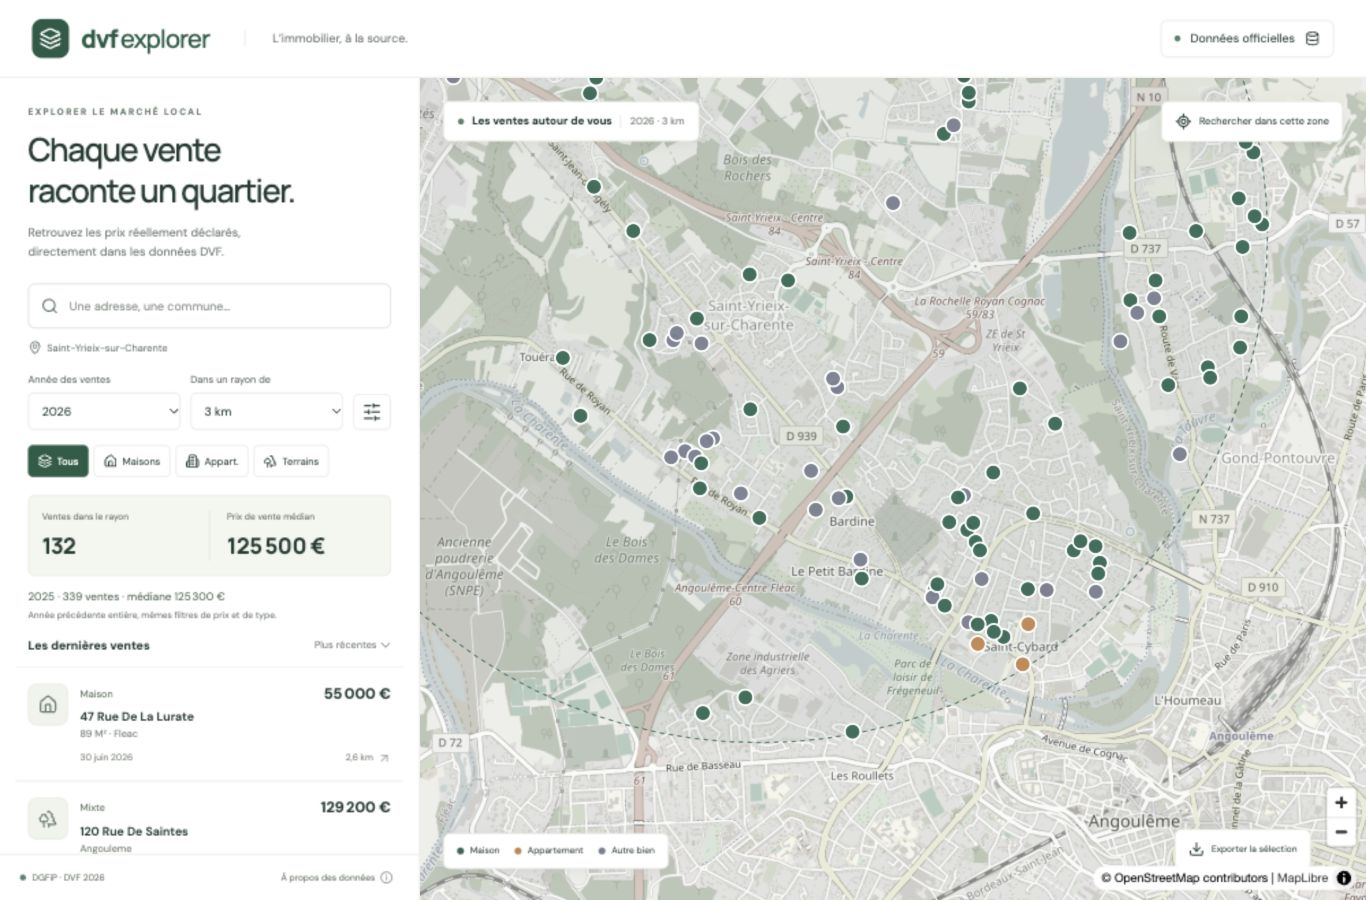
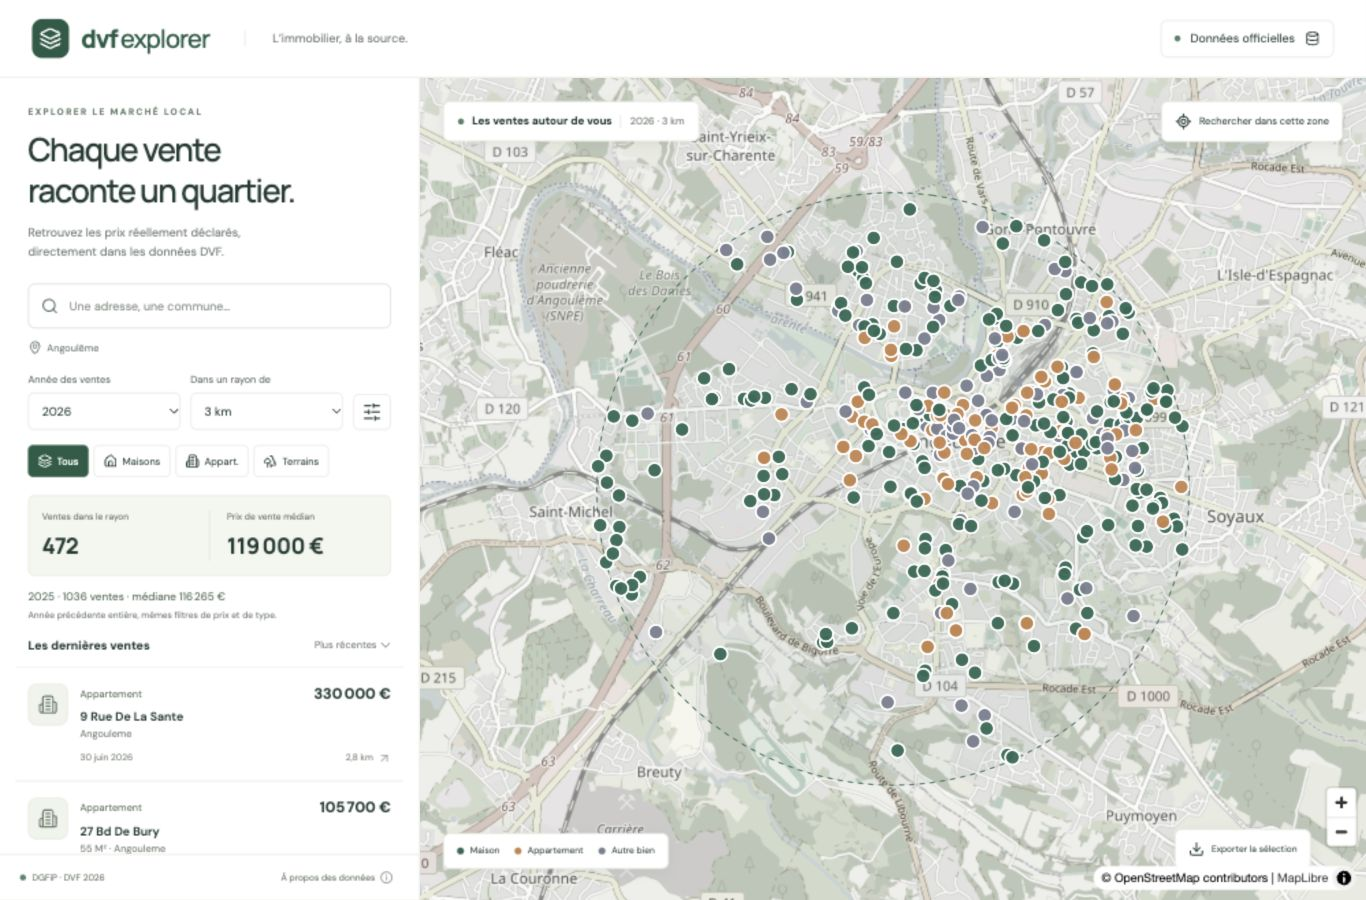
Center the default exploration on Angouleme

diff --git a/frontend/src/main.jsx b/frontend/src/main.jsx
@@ -7,7 +7,7 @@ import{Search,MapPin,ArrowUpRight,X,SlidersHorizontal,Database,Layers,LocateFixe
 import'maplibre-gl/dist/maplibre-gl.css';import'./style.css';
 const money=v=>v==null?'—':new Intl.NumberFormat('fr-FR',{style:'currency',currency:'EUR',maximumFractionDigits:0}).format(v);
 const date=v=>new Date(v+'T12:00:00').toLocaleDateString('fr-FR',{day:'numeric',month:'short',year:'numeric'});
-const initial={lon:.127748,lat:45.67955,label:'Saint-Yrieix-sur-Charente',department:'16'};
+const initial={lon:.148008,lat:45.644105,label:'Angoulême',department:'16'};
 async function api(path,options={}){const r=await fetch(path,options);if(!r.ok){let d;try{d=await r.json()}catch{}throw new Error(typeof d?.detail==='string'?d.detail:`Le service ne répond pas (${r.status}).`)}return r.json()}
 function App(){
 const[center,setCenter]=useState(initial),[query,setQuery]=useState(''),[suggestions,setSuggestions]=useState([]),[searchError,setSearchError]=useState('');

diff --git a/backend/tests/test_app.py b/backend/tests/test_app.py
@@ -11,10 +11,10 @@ from fastapi.testclient import TestClient
 def client(tmp_path,monkeypatch):
     monkeypatch.setattr(store,'DATA',tmp_path)
     con=store.connect()
-    values=[('near',date(2026,1,5),200000,'A','Commune','16','16358','Maison',100,300,4,.127748,45.67955,'["16358000AB0001"]',1,2026,'https://example.test',False),
-            ('complex',date(2026,2,5),400000,'B','Commune','16','16358','Maison',None,600,None,.13,45.68,'["p1","p2"]',2,2026,'https://example.test',True),
+    values=[('near',date(2026,1,5),200000,'A','Commune','16','16358','Maison',100,300,4,.148008,45.644105,'["16358000AB0001"]',1,2026,'https://example.test',False),
+            ('complex',date(2026,2,5),400000,'B','Commune','16','16358','Maison',None,600,None,.15,45.645,'["p1","p2"]',2,2026,'https://example.test',True),
             ('far',date(2026,1,5),900000,'C','Autre','16','16000','Appartement',100,None,4,1.5,46,'[]',1,2026,'https://example.test',False),
-            ('old',date(2025,1,5),100000,'D','Commune','16','16358','Maison',100,300,4,.127748,45.67955,'[]',1,2025,'https://example.test',False),
+            ('old',date(2025,1,5),100000,'D','Commune','16','16358','Maison',100,300,4,.148008,45.644105,'[]',1,2025,'https://example.test',False),
             ('unlocated',date(2026,1,5),500000,'E','Commune','16','16358','Maison',100,None,4,None,None,'[]',1,2026,'https://example.test',False)]
     con.executemany('INSERT INTO sales VALUES ('+','.join(['?']*18)+')',values);con.close()
     with TestClient(main.app) as c: yield c

diff --git a/backend/main.py b/backend/main.py
@@ -38,7 +38,7 @@ async def search(q: str=Query(min_length=3,max_length=200)):
     except (httpx.HTTPError,ValueError): raise HTTPException(502,'Le service de recherche IGN est momentanément indisponible.')
 
 @app.get('/api/sales')
-def sales(lon:float=Query(default=0.127748,ge=-180,le=180),lat:float=Query(default=45.67955,ge=-85,le=85),
+def sales(lon:float=Query(default=0.148008,ge=-180,le=180),lat:float=Query(default=45.644105,ge=-85,le=85),
           radius:float=Query(default=3,ge=.2,le=30),year:int=Query(default=2026,ge=2014,le=2100),
           kind:str='',price_min:float=Query(default=0,ge=0),price_max:float=Query(default=100000000,ge=0),
           start:date|None=None,end:date|None=None):

diff --git a/README.md b/README.md
@@ -1,6 +1,6 @@
 # DVF Explorer
 
-Application locale React + MapLibre + FastAPI + DuckDB. Les ventes proviennent des fichiers bruts officiels DGFiP, sans attendre leur intégration dans une API tierce. La carte démarre à Saint-Yrieix-sur-Charente.
+Application locale React + MapLibre + FastAPI + DuckDB. Les ventes proviennent des fichiers bruts officiels DGFiP, sans attendre leur intégration dans une API tierce. La carte démarre autour d’Angoulême, avec un rayon de 3 km modifiable.
 
 ![Aperçu de DVF Explorer](apercu.png)
 
